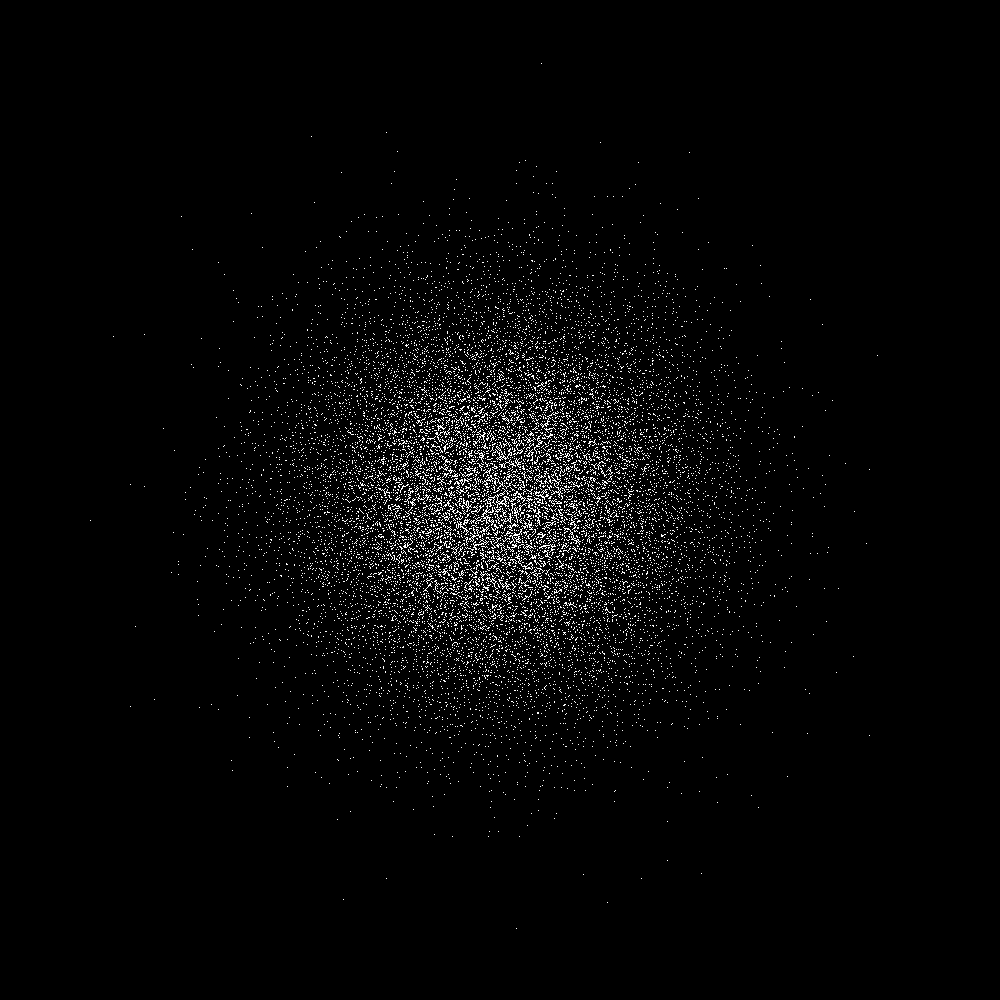
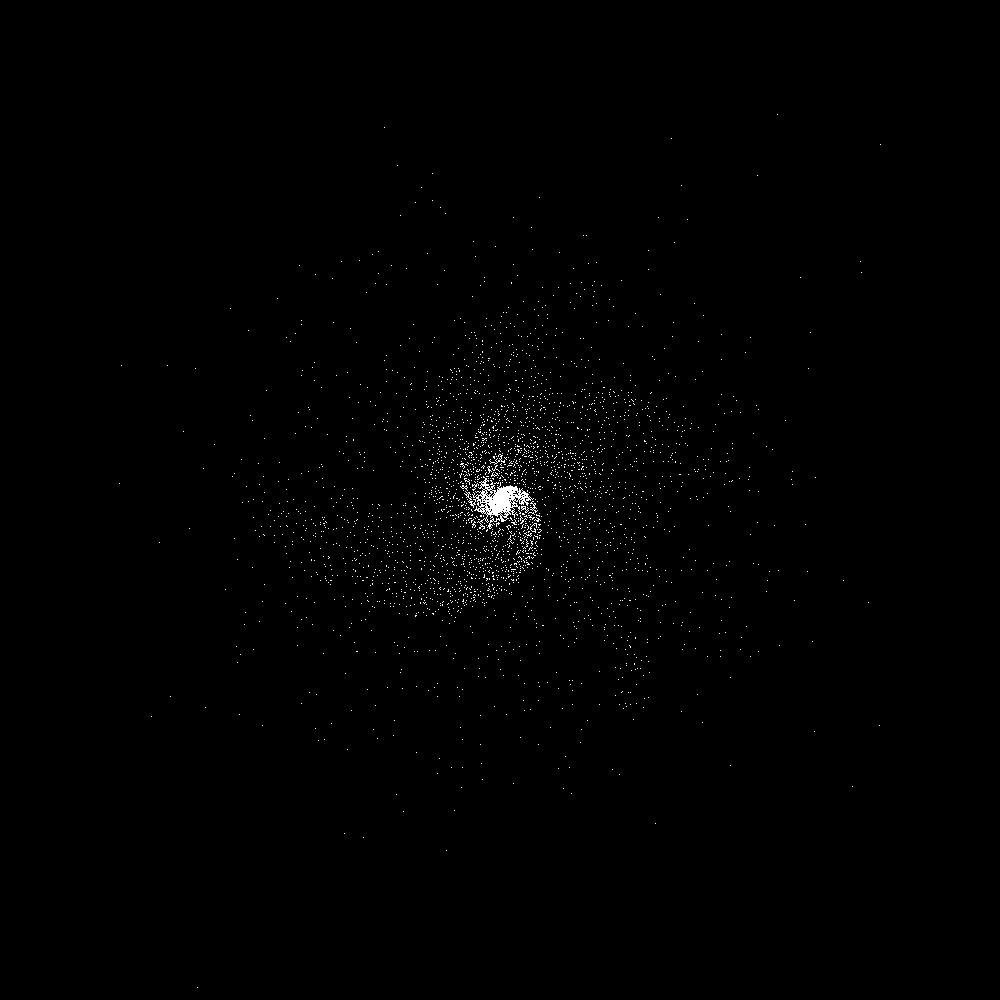
further experiments

Changed region(s): [[0.31, 0.341, 0.682, 0.682]]

diff --git a/mapgentest.py b/mapgentest.py
@@ -2,31 +2,29 @@ from PIL import Image
 import random
 import numpy as np
 
+
+
 def polar_to_cartesian(rho, theta):
     """Convert polar coordinates to Cartesian coordinates."""
     x = rho * np.cos(theta)
     y = rho * np.sin(theta)
     return x, y
 
-def generate_logarithmic_spiral(width, height, num_arms, arm_length, num_stars):
+
+def generate_logarithmic_spiral(width, height, num_arms, arm_length, num_stars, img):
     """Generate stars along a logarithmic spiral with adjustable arms and arm lengths."""
-    img = Image.new('RGB', (width, height), color=0)
     center_x = width / 2
     center_y = height / 2
     
-    # Create a Gaussian distribution centered at the image center
-    sigma = min(width, height) / 10
-    x_dist = np.random.normal(center_x, sigma, num_stars)
-    y_dist = np.random.normal(center_y, sigma, num_stars)
-    
     for i in range(num_stars):
         arm = random.randint(0, num_arms - 1)
-        angle = random.uniform(0, 2*np.pi)
+        angle = random.uniform(0, 4*np.pi)
         distance = random.uniform(0, arm_length)
         arm_offset = 2*np.pi / num_arms * arm
         
-        rho = distance * np.exp(angle)
-        theta = angle + arm_offset
+        # Adjust the distance based on the arm length and angle
+        rho = np.sqrt(distance) * np.exp(angle / 2)
+        theta = (angle*0.75) + (arm_offset*1)
         x, y = polar_to_cartesian(rho, theta)
         
         x += center_x
@@ -38,22 +36,13 @@ def generate_logarithmic_spiral(width, height, num_arms, arm_length, num_stars):
         # Ensure the star is within the image bounds
         if 0 <= x < width and 0 <= y < height:
             img.putpixel((x, y), (255, 255, 255))  # White pixel for star
-    
-    # Add stars according to Gaussian distribution
-    for i in range(num_stars):
-        x = int(round(x_dist[i]))
-        y = int(round(y_dist[i]))
-        
-        # Ensure the star is within the image bounds
-        if 0 <= x < width and 0 <= y < height:
-            img.putpixel((x, y), (255, 255, 255))  # White pixel for star
             
     return img
 
 def addGauss(width, height, img):
     center_x = width / 2
     center_y = height / 2
-    sigma = min(width, height) / 10  # Adjust the sigma parameter to control the distribution spread
+    sigma = min(width, height) / 8  # Adjust the sigma parameter to control the distribution spread
     x_dist = np.random.normal(center_x, sigma, num_stars)
     y_dist = np.random.normal(center_y, sigma, num_stars)
 
@@ -61,7 +50,7 @@ def addGauss(width, height, img):
     x_dist = np.clip(x_dist, 0, width - 1)
     y_dist = np.clip(y_dist, 0, height - 1)
 
-    for i in range(num_stars):
+    for i in range(round(num_stars*0.25)):
         x = int(round(x_dist[i]))
         y = int(round(y_dist[i]))
         img.putpixel((x,y), (255, 255, 255))
@@ -71,12 +60,13 @@ def addGauss(width, height, img):
 # Define parameters
 width = 1000
 height = 1000
-num_arms = 4  # Number of spiral arms
-arm_length = 0.90  # Length of each spiral arm
-num_stars = 1000
-
+img = Image.new('RGB', (width, height), color=0)
+num_arms = 3  # Number of spiral arms
+arm_length = 0.25  # Length of each spiral arm
+num_stars = 5000
 # Generate galaxy-like structure
-galaxy_img = generate_logarithmic_spiral(width, height, num_arms, arm_length, num_stars)
+galaxy_img = generate_logarithmic_spiral(width, height, num_arms, arm_length, num_stars, img)
+galaxy_img = generate_logarithmic_spiral(width, height, 2, arm_length, num_stars, galaxy_img)
 galaxy_img = addGauss(width, height, galaxy_img)
 # Save the image
 galaxy_img.save('galaxy.png')

diff --git a/mapgen2.py b/mapgen2.py
@@ -7,10 +7,19 @@ width = 1000
 height = 1000
 
 # Create a blank image
-img = Image.new('L', (width, height), color=0)  # 'L' for grayscale
+img = Image.new('RGB', (width, height), color=0)  # 'L' for grayscale
+
+cO_color = (146, 181, 255)
+cB_color = (162, 192, 255)
+cA_color = (213, 224, 255)
+cF_color = (249, 245, 255)
+cG_color = (255, 237, 227)
+cK_color = (255, 218, 181)
+cM_color = (255, 182, 108)
+
 
 # Generate galaxy-like structure with more stars closer to the center
-num_stars = 25000
+num_stars = 10000
 
 # Define a Gaussian distribution centered at the image center
 center_x = width / 2
@@ -26,7 +35,21 @@ y_dist = np.clip(y_dist, 0, height - 1)
 for i in range(num_stars):
     x = int(round(x_dist[i]))
     y = int(round(y_dist[i]))
-    img.putpixel((x, y), 255)  # 255 represents white (star)
-
+    starClass = i % 6
+    match starClass:
+        case 0:
+            img.putpixel((x, y), cO_color)  # 255 represents white (star)
+        case 1:
+            img.putpixel((x, y), cB_color)
+        case 2:
+            img.putpixel((x, y), cA_color)
+        case 3:
+            img.putpixel((x, y), cF_color)
+        case 4:
+            img.putpixel((x, y), cG_color)
+        case 5:
+            img.putpixel((x, y), cK_color)
+        case _:
+            img.putpixel((x, y), cM_color)
 # Save the image
 img.save('galaxy.png')
